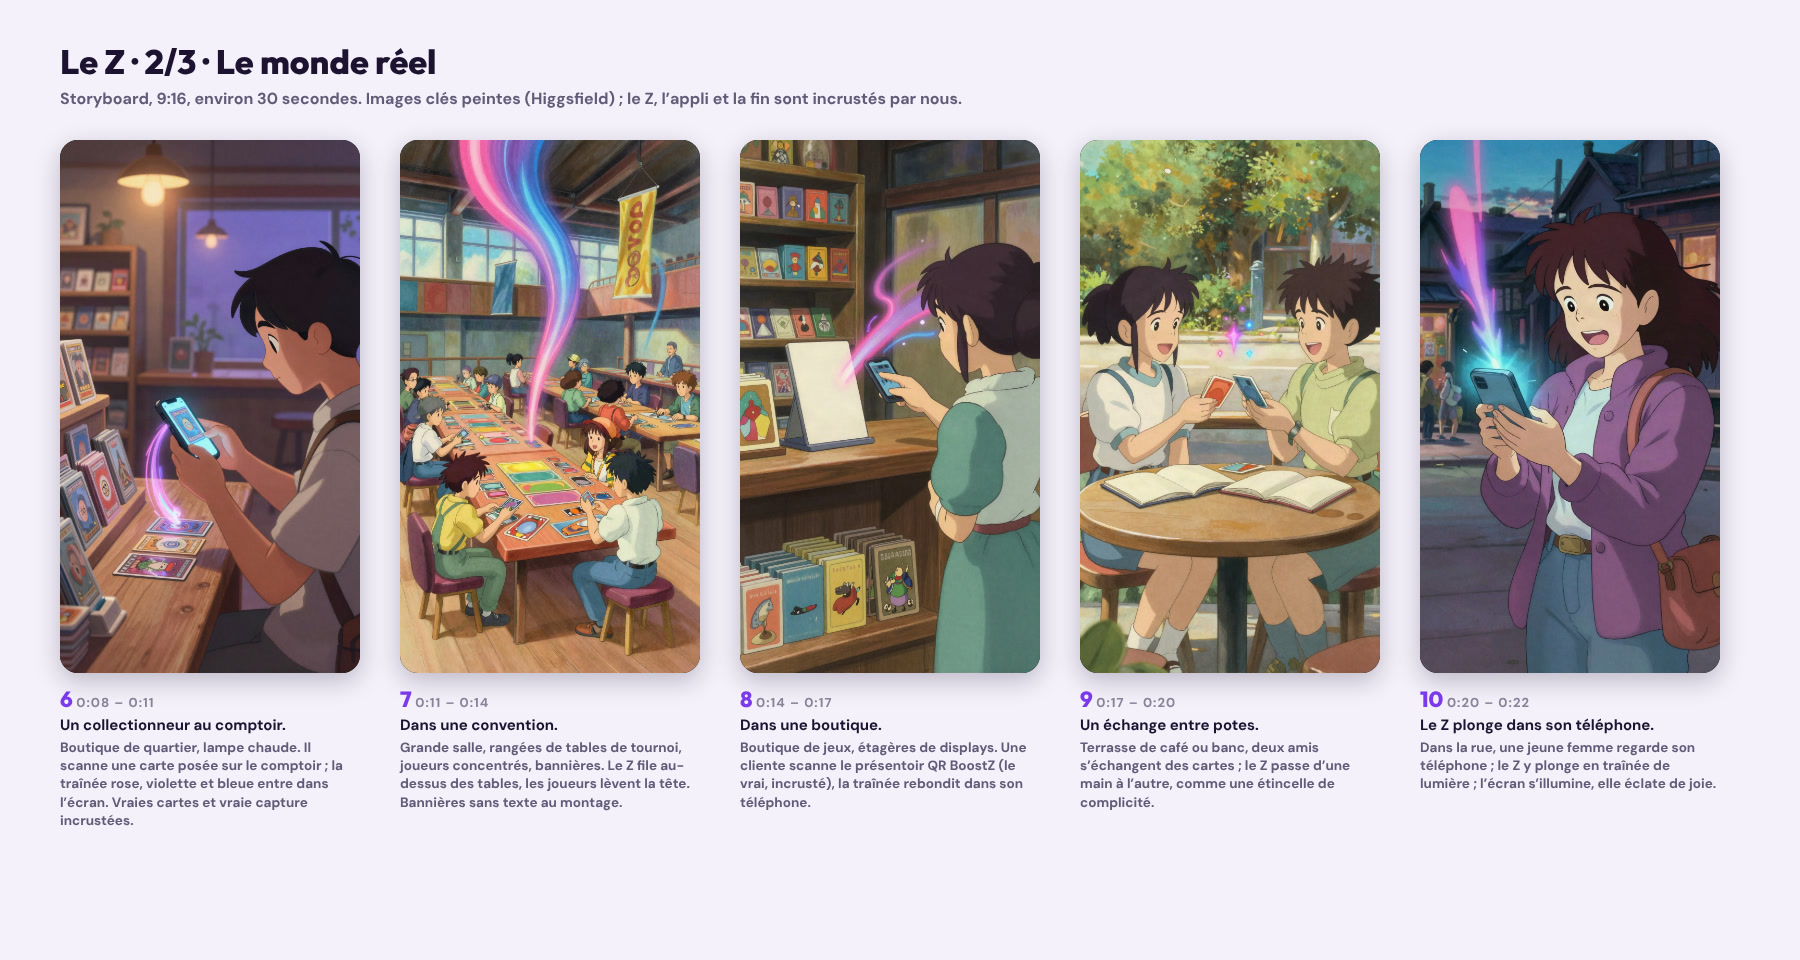
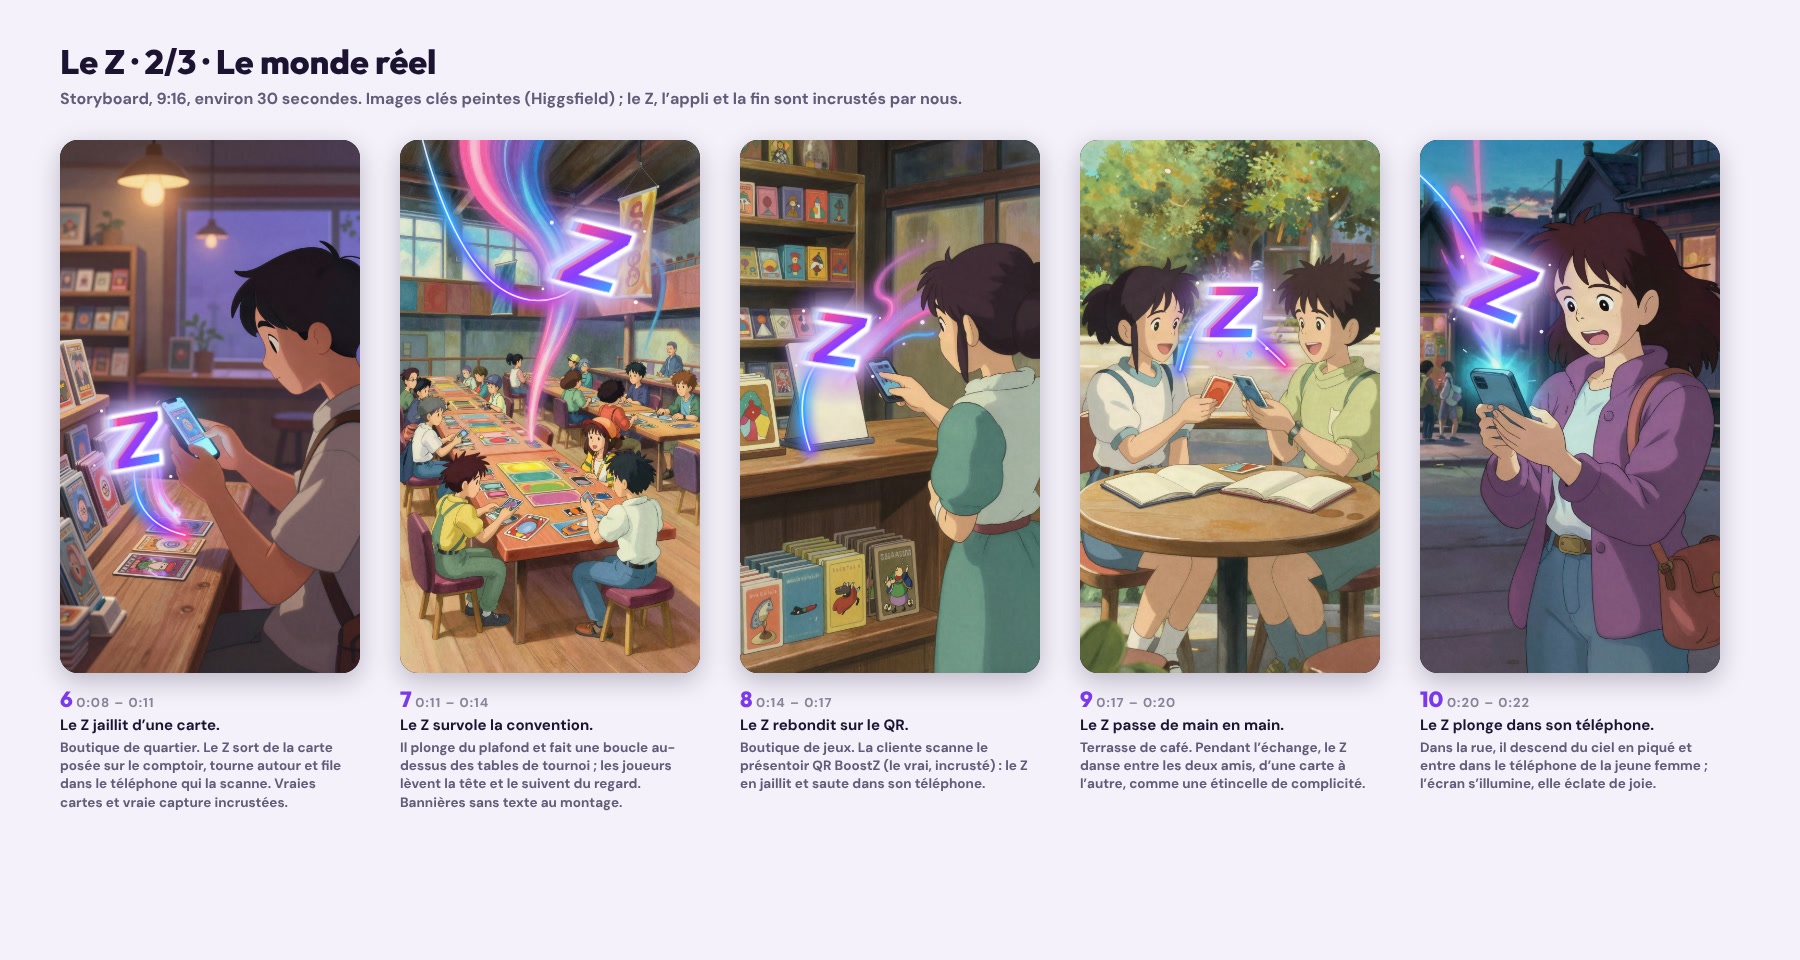
Make the Z the visible character of every storyboard shot
TanPib found the Z avatar too hard to follow across the panels. From shot 3
on, the wordmark Z (with its ghosts, a white outline and a glow) is drawn
in every frame with the light trail it leaves, at a size that reads, and
each note now says where the Z is and what it does in that shot.

Claude-Session: https://claude.ai/code/session_01KYjmNhJZrtvo4jRtggkgV3

diff --git a/gabarits/storyboard-z.html b/gabarits/storyboard-z.html
@@ -48,7 +48,7 @@ const room = (wall, floor) => `<rect width="300" height="533" fill="${wall}"/><r
 const PANELS = [
   ['1', '0:00 – 0:02', 'La nébuleuse.', 'Galaxie nébuleuse sombre, violets et bleus profonds, lent travelling avant. Silence, grondement sourd.', svg(nebula)],
   ['2', '0:02 – 0:04', 'Une étincelle s’allume.', 'Au centre, une minuscule étincelle s’allume et clignote : un, deux… comme un battement de cœur. Son : « boum-boum ».', svg(nebula + spark(150, 266, 7))],
-  ['3', '0:04 – 0:06', 'Le battement s’accélère.', 'Les battements se rapprochent, l’étincelle grossit, chaque pulsation envoie une onde de lumière dans la nébuleuse.', svg(nebula + [60, 100, 140].map((r, i) => `<circle cx="150" cy="266" r="${r}" fill="none" stroke="#C4B5FD" stroke-width="${3 - i}" opacity="${.6 - i * .15}"/>`).join('') + spark(150, 266, 16))],
+  ['3', '0:04 – 0:06', 'Le battement s’accélère.', 'Les battements se rapprochent, l’étincelle grossit ; au cœur de la lumière, on devine déjà la forme du Z.', svg(nebula + [60, 100, 140].map((r, i) => `<circle cx="150" cy="266" r="${r}" fill="none" stroke="#C4B5FD" stroke-width="${3 - i}" opacity="${.6 - i * .15}"/>`).join('') + spark(150, 266, 16))],
   ['4', '0:06 – 0:07', 'C’est le Z.', 'Dernier battement : l’étincelle se révèle, c’est le Z de BoostZ, avec ses trois Z fantômes. Flash.', svg(nebula + `<circle cx="150" cy="266" r="150" fill="url(##Gsp)" opacity=".6"/>` + Z(150, 266, 1.6))],
   ['5', '0:07 – 0:08', 'Le Z fait exploser la réalité.', 'Le Z traverse l’espace qui se brise comme du verre ; par les éclats, on voit déjà le monde réel. Flash blanc, coupe.', svg(nebula + Array.from({ length: 14 }, (_, i) => { const a = i * Math.PI / 7, r1 = 40, r2 = 260; return `<path d="M${150 + r1 * Math.cos(a)} ${266 + r1 * Math.sin(a)} L${150 + r2 * Math.cos(a + .08)} ${266 + r2 * Math.sin(a + .08)} L${150 + r2 * Math.cos(a - .12)} ${266 + r2 * Math.sin(a - .12)}Z" fill="${i % 3 ? '#E9E4F5' : '#B9A98F'}" opacity=".5"/>`; }).join('') + Z(150, 266, 1.3))],
   ['6', '0:08 – 0:11', 'Chez un collectionneur.', 'Bureau, classeur ouvert, lampe chaude. Il scanne une carte avec son téléphone ; la traînée du Z entre dans l’écran ; il sourit jusqu’aux oreilles.', svg(room('#3A2E26', '#5A4636') + `<rect x="20" y="330" width="260" height="20" rx="4" fill="#7A5C44"/>` + person(150, 200, 1.2, { c: '#2F4A6E', smile: true }) + cardR(110, 318, 44, -8) + phone(185, 300, 30, 10, '#2A1458', true) + trail('M300 120 Q240 160 200 280', 5))],
@@ -61,19 +61,46 @@ const PANELS = [
   ['13', '0:27 – 0:30', 'La fin.', 'Le téléphone s’efface, la nébuleuse revient ; le logo boostZ, puis « Ton compagnon TCG », « le 14 janvier ». Musique qui retombe, un dernier battement.', svg(nebula + `<circle cx="150" cy="230" r="120" fill="url(##Gsp)" opacity=".35"/><text x="150" y="250" text-anchor="middle" font-family="Outfit" font-weight="800" font-size="56" fill="#fff">boost<tspan fill="url(##Gz)">Z</tspan></text><text x="150" y="300" text-anchor="middle" font-family="DM Sans" font-weight="700" font-size="18" fill="#C4B5FD">Ton compagnon TCG</text><text x="150" y="340" text-anchor="middle" font-family="Outfit" font-weight="800" font-size="26" fill="#fff">le 14 janvier</text>`)]
 ];
 // Painted keyframes, with what we composite ourselves on top.
+// The Z as the film's character: the wordmark Z with its ghosts, a glow, and
+// the light trail it leaves behind (d, in frame space). Drawn by us, never
+// generated, so it stays the exact brand Z in every shot.
+const zAv = (x, y, s, d = '', rot = 0) => { const g = uid(); return `<svg class="abs" width="300" height="533" viewBox="0 0 300 533" style="left:0;top:0;overflow:visible"><defs>
+  <linearGradient id="${g}t" x1="0" y1="0" x2="1" y2="1"><stop offset="0" stop-color="${GR[2]}" stop-opacity=".0"/><stop offset=".35" stop-color="${GR[2]}"/><stop offset=".7" stop-color="${GR[1]}"/><stop offset="1" stop-color="${GR[0]}"/></linearGradient>
+  <linearGradient id="${g}z" x1="0" y1="0" x2="1" y2="1"><stop offset="0" stop-color="${GR[0]}"/><stop offset=".55" stop-color="${GR[1]}"/><stop offset="1" stop-color="${GR[2]}"/></linearGradient>
+  <radialGradient id="${g}h"><stop offset="0" stop-color="#fff" stop-opacity=".95"/><stop offset=".35" stop-color="#E9D5FF" stop-opacity=".6"/><stop offset="1" stop-color="#8B3DFF" stop-opacity="0"/></radialGradient>
+  <filter id="${g}b" x="-50%" y="-50%" width="200%" height="200%"><feGaussianBlur stdDeviation="5"/></filter>
+  <filter id="${g}w" x="-60%" y="-60%" width="220%" height="220%"><feMorphology operator="dilate" radius="4" in="SourceAlpha" result="d"/><feGaussianBlur in="d" stdDeviation="1.2" result="o"/><feFlood flood-color="#fff"/><feComposite operator="in" in2="o" result="w"/><feGaussianBlur in="d" stdDeviation="9" result="gb"/><feFlood flood-color="#C4B5FD"/><feComposite operator="in" in2="gb" result="g"/><feMerge><feMergeNode in="g"/><feMergeNode in="g"/><feMergeNode in="w"/><feMergeNode in="SourceGraphic"/></feMerge></filter>
+  </defs>${d ? `<path d="${d}" fill="none" stroke="url(#${g}t)" stroke-width="16" stroke-linecap="round" filter="url(#${g}b)" opacity=".9"/><path d="${d}" fill="none" stroke="url(#${g}t)" stroke-width="6" stroke-linecap="round"/><path d="${d}" fill="none" stroke="#fff" stroke-width="1.6" stroke-linecap="round" opacity=".85"/>` : ''}
+  <circle cx="${x}" cy="${y}" r="${95 * s}" fill="url(#${g}h)"/><g transform="rotate(${rot} ${x} ${y})" filter="url(#${g}w)">${Z(x, y, s).replace(/##Gz/g, '#' + g + 'z')}</g>${[[-1, -.8], [1.1, -.6], [.9, 1], [-1.2, .7]].map(([a, b], i) => `<circle cx="${x + a * 52 * s}" cy="${y + b * 52 * s}" r="${(i % 2 ? 1.6 : 2.4) * Math.max(s, .6)}" fill="#fff" opacity=".9"/>`).join('')}</svg>`; };
 const zOver = (x, y, s) => `<svg class="abs" width="300" height="533" viewBox="0 0 300 533" style="left:0;top:0"><defs><linearGradient id="zg${x}" x1="0" y1="0" x2="1" y2="1"><stop offset="0" stop-color="${GR[0]}"/><stop offset=".55" stop-color="${GR[1]}"/><stop offset="1" stop-color="${GR[2]}"/></linearGradient></defs>${Z(x, y, s).replace(/##Gz/g, '#zg' + x)}</svg>`;
 const OVER = {
-  4: zOver(150, 282, 1.25),
-  12: `<div class="abs" style="left:64px;top:74px;width:164px;height:392px;border-radius:18px;overflow:hidden;background:#0B0812"><img src="shots/app-accueil.jpg" style="width:164px;display:block;margin-top:10px"></div>`,
+  3: `<svg class="abs" width="300" height="533" viewBox="0 0 300 533" style="left:0;top:0">${Z(150, 238, .5, .5).replace(/url\(##Gz\)/g, '#7C3AED')}</svg>`,
+  4: zAv(150, 282, 1.25),
+  5: zAv(150, 236, 1.05),
+  6: zAv(78, 300, .7, 'M125 395 Q60 380 78 300', -10),
+  7: zAv(196, 118, .85, 'M20 -10 Q60 150 130 160 Q175 165 196 118', 14),
+  8: zAv(100, 200, .7, 'M70 310 Q45 240 100 200', 8),
+  9: zAv(154, 172, .7, 'M100 230 Q120 150 154 178 Q180 200 205 225', 0),
+  10: zAv(84, 150, .8, 'M-20 20 Q40 60 74 150', 20),
+  11: zAv(200, 78, .72, 'M80 170 Q110 60 190 70', -12),
+  12: `<div class="abs" style="left:64px;top:74px;width:164px;height:392px;border-radius:18px;overflow:hidden;background:#0B0812"><img src="shots/app-accueil.jpg" style="width:164px;display:block;margin-top:10px"></div>${zAv(246, 112, .72, 'M310 300 Q300 160 246 112', 10)}`,
   13: `<div class="abs" style="left:0;top:170px;width:300px;display:flex;flex-direction:column;align-items:center">${wordmark(52)}<div style="margin-top:14px;font-family:Poppins;font-weight:700;font-size:17px;color:#fff">Ton compagnon TCG</div><div style="margin-top:22px;font-family:Outfit;font-weight:800;font-size:26px;color:#fff;text-align:center;line-height:1.15">BoostZ sort<br>le 14 janvier</div></div>`
 };
 PANELS.forEach((pn, i) => { const k = i + 1; pn[4] = `<img src="../images/video-z/plans/plan-${String(k).padStart(2, '0')}.jpg" style="width:300px;height:533px;object-fit:cover;display:block">${OVER[k] || ''}`; });
-PANELS[5][2] = 'Un collectionneur au comptoir.';
-PANELS[5][3] = 'Boutique de quartier, lampe chaude. Il scanne une carte posée sur le comptoir ; la traînée rose, violette et bleue entre dans l’écran. Vraies cartes et vraie capture incrustées.';
-PANELS[6][3] += ' Bannières sans texte au montage.';
-PANELS[7][3] = 'Boutique de jeux, étagères de displays. Une cliente scanne le présentoir QR BoostZ (le vrai, incrusté), la traînée rebondit dans son téléphone.';
-PANELS[11][3] = 'La caméra suit le téléphone en l’air jusqu’à remplir l’écran ; dedans, l’appli BoostZ défile : collection, cote, scellés, échanges. Vraies captures incrustées.';
-PANELS[12][3] = 'La nébuleuse revient, calme ; puis le logo boostZ, le sous-titre « Ton compagnon TCG » et « BoostZ sort le 14 janvier ». Un dernier battement.';
+// The Z is the film's character (TanPib, 07/11/2026: « on ne voit pas assez
+// l'avatar du Z se déplacer »): every shot from 4 on says where it is and what it does.
+const NOTES = {
+  5: ['Le Z fait exploser la réalité.', 'Le Z fonce vers nous et traverse le ciel, qui se brise comme du verre ; par les éclats, une petite ville. Flash blanc, coupe.'],
+  6: ['Le Z jaillit d’une carte.', 'Boutique de quartier. Le Z sort de la carte posée sur le comptoir, tourne autour et file dans le téléphone qui la scanne. Vraies cartes et vraie capture incrustées.'],
+  7: ['Le Z survole la convention.', 'Il plonge du plafond et fait une boucle au-dessus des tables de tournoi ; les joueurs lèvent la tête et le suivent du regard. Bannières sans texte au montage.'],
+  8: ['Le Z rebondit sur le QR.', 'Boutique de jeux. La cliente scanne le présentoir QR BoostZ (le vrai, incrusté) : le Z en jaillit et saute dans son téléphone.'],
+  9: ['Le Z passe de main en main.', 'Terrasse de café. Pendant l’échange, le Z danse entre les deux amis, d’une carte à l’autre, comme une étincelle de complicité.'],
+  10: ['Le Z plonge dans son téléphone.', 'Dans la rue, il descend du ciel en piqué et entre dans le téléphone de la jeune femme ; l’écran s’illumine, elle éclate de joie.'],
+  11: ['Elle jette son téléphone en l’air.', 'Ralenti : le téléphone tournoie vers le ciel, bras levés, cheveux au vent ; le Z ressort et tourne autour en semant des étincelles.'],
+  12: ['L’image se fige sur le téléphone.', 'La caméra suit le téléphone jusqu’à remplir l’écran ; le Z se pose sur son bord et l’appli défile : collection, cote, scellés, échanges. Vraies captures incrustées.'],
+  13: ['La fin.', 'Le Z remonte dans la nébuleuse et reprend sa place dans le logo boostZ ; puis « Ton compagnon TCG » et « BoostZ sort le 14 janvier ». Un dernier battement.']
+};
+Object.entries(NOTES).forEach(([k, [t, n]]) => { PANELS[k - 1][2] = t; PANELS[k - 1][3] = n; });
 const sheet = (list, title) => `<div class="abs" style="left:60px;top:40px;font-family:Outfit;font-weight:800;font-size:34px;color:#1B1330">${title}</div>
   <div class="abs" style="left:60px;top:88px;font-family:'DM Sans';font-weight:600;font-size:16px;color:#625B78">Storyboard, 9:16, environ 30 secondes. Images clés peintes (Higgsfield) ; le Z, l’appli et la fin sont incrustés par nous.</div>
   ${list.map(([num, tc, t, note, fr], i) => `<div class="pan" style="left:${60 + (i % 5) * 340}px;top:${140}px"><div class="fr">${fr}</div><div class="cap"><span class="num">${num}</span> <span class="tc">${tc}</span><br>${t}</div><div class="note">${note}</div></div>`).join('')}`;
